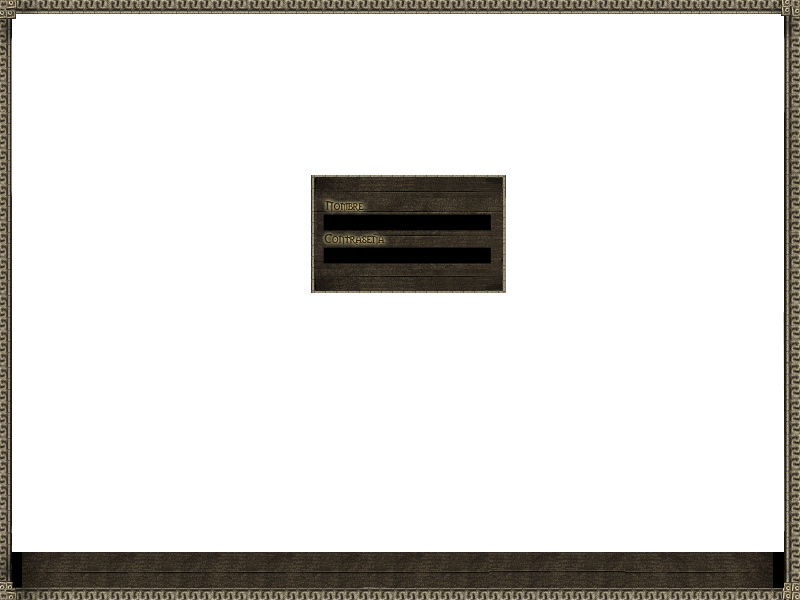
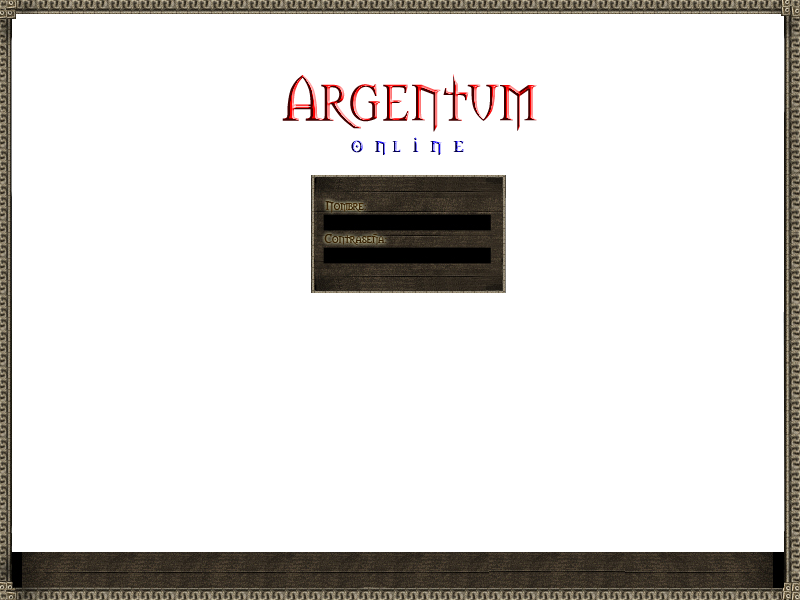
Mejoramos los formularios

Changed region(s): [[0.3438, 0.12, 0.6875, 0.27], [0.5312, 0.24, 0.5625, 0.27]]

diff --git a/src/main/java/org/aoclient/engine/gui/forms/MainGame.java b/src/main/java/org/aoclient/engine/gui/forms/MainGame.java
@@ -14,43 +14,35 @@ import static org.aoclient.engine.utils.GameData.charList;
 public class MainGame extends Form {
     private static MainGame instance;
 
-    public final Shape shpEnergia;
-    public final Shape shpMana;
-    public final Shape shpVida;
-    public final Shape shpHambre;
-    public final Shape shpSed;
+    public Shape shpEnergia = new Shape(584, 453, 75, 12, new RGBColor(0.0f, 0.0f, 0.0f));
+    public Shape shpMana = new Shape(584, 477, 75, 12, new RGBColor(0.0f, 0.0f, 0.0f));
+    public Shape shpVida = new Shape(584, 498, 75, 12, new RGBColor(0.0f, 0.0f, 0.0f));
+    public Shape shpHambre = new Shape(584, 521, 75, 12, new RGBColor(0.0f, 0.0f, 0.0f));
+    public Shape shpSed = new Shape(584, 542, 75, 12, new RGBColor(0.0f, 0.0f, 0.0f));
 
-    public final Label lblEnergia;
-    public final Label lblMana;
-    public final Label lblVida;
-    public final Label lblHambre;
-    public final Label lblSed;
+    public Label lblEnergia = new Label("999/999", 584, 453, 75, 12, false, false);
+    public Label lblMana = new Label("9999/9999", 584, 477, 75, 12, false, false);
+    public Label lblVida = new Label("999/999", 584, 498, 75, 12, false, false);
+    public Label lblHambre = new Label("999/999", 584, 521, 75, 12, false, false);
+    public Label lblSed = new Label("999/999", 584, 542, 75, 12, false, false);
 
-    private final Label lblName;
+    private Label lblName;
 
-
-    private final Button buttonClose, buttonMinimizar;
-    private final Console console;
+    private Button buttonClose, buttonMinimizar;
+    private Console console;
 
     private MainGame() {
-        super("VentanaPrincipal.png");
+
+    }
+
+    public void init(){
+        this.background.init("VentanaPrincipal.png");
+
         this.buttonClose = new Button(770,4, 17, 17);
         this.buttonClose.setAction(Engine::closeClient); // definimos su funcion pasando una lambda.
 
         this.buttonMinimizar = new Button(752, 4, 17, 17);
         this.buttonMinimizar.setAction(() -> Window.get().minimizar());
-
-        this.shpEnergia = new Shape(584, 453, 75, 12, new RGBColor(0.0f, 0.0f, 0.0f));
-        this.shpMana = new Shape(584, 477, 75, 12, new RGBColor(0.0f, 0.0f, 0.0f));
-        this.shpVida = new Shape(584, 498, 75, 12, new RGBColor(0.0f, 0.0f, 0.0f));
-        this.shpHambre = new Shape(584, 521, 75, 12, new RGBColor(0.0f, 0.0f, 0.0f));
-        this.shpSed = new Shape(584, 542, 75, 12, new RGBColor(0.0f, 0.0f, 0.0f));
-
-        this.lblEnergia = new Label("999/999", 584, 453, 75, 12, false, false);
-        this.lblMana = new Label("9999/9999", 584, 477, 75, 12, false, false);
-        this.lblVida = new Label("999/999", 584, 498, 75, 12, false, false);
-        this.lblHambre = new Label("999/999", 584, 521, 75, 12, false, false);
-        this.lblSed = new Label("999/999", 584, 542, 75, 12, false, false);
 
         this.lblName = new Label(charList[UserLogic.getInstance().getUserCharIndex()].getName().toUpperCase(),
                 584, 24, true, false, new RGBColor(1.0f, 0.0f, 0.0f));
@@ -104,7 +96,19 @@ public class MainGame extends Form {
         background.clear();
         buttonClose.clear();
         buttonMinimizar.clear();
-    }
 
+        shpHambre.clear();
+        shpMana.clear();
+        shpVida.clear();
+        shpSed.clear();
+        shpEnergia.clear();
+
+        lblHambre.clear();
+        lblSed.clear();
+        lblEnergia.clear();
+        lblName.clear();
+        lblMana.clear();
+        lblVida.clear();
+    }
 
 }

diff --git a/src/main/java/org/aoclient/engine/scenes/MainScene.java b/src/main/java/org/aoclient/engine/scenes/MainScene.java
@@ -5,6 +5,7 @@ import org.aoclient.engine.Window;
 import org.aoclient.engine.game.UserLogic;
 import org.aoclient.engine.gui.ElementGUI;
 import org.aoclient.engine.gui.elements.ImageGUI;
+import org.aoclient.engine.gui.forms.Login;
 import org.aoclient.engine.listeners.KeyListener;
 import org.aoclient.engine.renderer.RGBColor;
 import org.aoclient.engine.utils.GameData;
@@ -19,8 +20,9 @@ import static org.aoclient.engine.utils.GameData.music;
 import static org.lwjgl.glfw.GLFW.GLFW_KEY_ENTER;
 
 public final class MainScene extends Scene {
+    private Login frmLogin;
+
     // Conectar
-    private ElementGUI loginInterface;
     private RGBColor ambientColor;
 
     @Override
@@ -28,10 +30,8 @@ public final class MainScene extends Scene {
         super.init();
         canChangeTo = SceneType.GAME_SCENE;
 
-        // Interface
-        loginInterface = new ImageGUI();
-        loginInterface.loadTextures("VentanaConectar.png");
-
+        frmLogin = Login.get();
+        frmLogin.init();
         ambientColor = new RGBColor(1.0f, 1.0f, 1.0f);
 
         GameData.loadMap(58); // banderbill
@@ -41,7 +41,7 @@ public final class MainScene extends Scene {
 
     @Override
     public void mouseEvents() {
-
+        frmLogin.checkButtons();
     }
 
     @Override
@@ -57,23 +57,23 @@ public final class MainScene extends Scene {
     public void close() {
         music.stop();
         this.visible = false;
-        loginInterface.clear();
+        frmLogin.close();
     }
 
     @Override
     public void render() {
         if(UserLogic.getInstance().isUserConected()) {
-            close();
+            this.close();
         }
 
         if (!visible) return;
 
         renderMap();
-        loginInterface.render();
+        frmLogin.render();
     }
 
     private void renderMap() {
-        camera.update(35, 11);
+        camera.update(34, 16);
 
         for (int y = camera.getScreenminY(); y <= camera.getScreenmaxY(); y++) {
             int x;

diff --git a/src/main/java/org/aoclient/engine/gui/forms/Login.java b/src/main/java/org/aoclient/engine/gui/forms/Login.java
@@ -1,10 +1,32 @@
 package org.aoclient.engine.gui.forms;
 
+import org.aoclient.connection.SocketConnection;
+import org.aoclient.engine.gui.elements.Button;
+import org.aoclient.engine.listeners.MouseListener;
+
+import static org.aoclient.connection.Protocol.writeLoginExistingChar;
+import static org.aoclient.engine.Engine.forms;
+import static org.lwjgl.glfw.GLFW.GLFW_MOUSE_BUTTON_LEFT;
+
 public class Login extends Form{
     private static Login instance;
 
+    private Button btnConnect;
+
     private Login() {
-        super("VentanaConectar.png");
+
+    }
+
+    public void init() {
+        this.background.init("VentanaConectar.png");
+        //this.loadParentAttributes();
+
+        this.btnConnect = new Button(320, 264, 89, 25);
+        this.btnConnect.loadTextures("BotonConectarse.jpg", "BotonConectarseRollover.jpg", "BotonConectarseClick.jpg");
+        this.btnConnect.setAction( () -> {
+            SocketConnection.getInstance().connect();
+            writeLoginExistingChar();
+        });
     }
 
     public static Login get(){
@@ -17,17 +39,23 @@ public class Login extends Form{
 
     @Override
     public void render() {
-
+        this.background.render();
+        this.btnConnect.render();
     }
 
     @Override
     public void checkButtons() {
+        if(!forms.isEmpty()) return;
 
+        if (MouseListener.mouseButtonClick(GLFW_MOUSE_BUTTON_LEFT)) {
+            btnConnect.runAction();
+        }
     }
 
     @Override
     public void close() {
         super.close();
+        btnConnect.clear();
     }
 
 }

diff --git a/src/main/java/org/aoclient/engine/gui/forms/Form.java b/src/main/java/org/aoclient/engine/gui/forms/Form.java
@@ -10,9 +10,12 @@ public abstract class Form {
     protected int fWidth, fHeight;
     protected boolean visible;
 
-    public Form(String fileBackground) {
-        this.background = new ImageGUI(fileBackground);
+    public Form() {
+        this.background = new ImageGUI();
+        this.visible = true;
+    }
 
+    protected void loadParentAttributes(){
         // posicionamos el formulario en el centro de la pantalla segun el background cargado!
         this.fPosX = (Window.get().getWidth() / 2) - (this.background.getWidth() / 2);
         this.fPosY = (Window.get().getHeight() / 2) - (this.background.getHeight() / 2);
@@ -22,8 +25,6 @@ public abstract class Form {
         // posicionamos el fondo en la posicion de nuestro formulario
         this.background.setX(fPosX);
         this.background.setY(fPosY);
-
-        this.visible = true;
     }
 
     public abstract void render();
@@ -31,6 +32,7 @@ public abstract class Form {
 
     public void close() {
         this.visible = false;
+        this.background.clear();
     }
 
     public boolean isVisible() {

diff --git a/src/main/java/org/aoclient/engine/gui/forms/Message.java b/src/main/java/org/aoclient/engine/gui/forms/Message.java
@@ -21,7 +21,9 @@ public class Message extends Form {
     private final Button accept;
 
     public Message(String msg) {
-        super("VentanaMsj.jpg");
+        this.background.init("VentanaMsj.jpg");
+        this.loadParentAttributes();
+
         this.msg = new Label(msg, fPosX + LBL_MSG_POS_X, fPosY + LBL_MSG_POS_Y, LBL_SIZE_WIDTH, LBL_SIZE_HEIGHT, true, false);
         this.accept = new Button(fPosX + BTN_MSG_POS_X, fPosY + BTN_MSG_POS_Y, BTN_SIZE_WIDTH, BTN_SIZE_HEIGHT);
         this.accept.loadTextures("BotonCerrarMsj.jpg", "BotonCerrarRolloverMsj.jpg", "BotonCerrarClickMsj.jpg");

diff --git a/src/main/java/org/aoclient/engine/gui/elements/ImageGUI.java b/src/main/java/org/aoclient/engine/gui/elements/ImageGUI.java
@@ -18,6 +18,12 @@ public final class ImageGUI extends ElementGUI {
         this.height = this.texture.get(0).getTex_height();
     }
 
+    public void init(String... textures) {
+        this.loadTextures(textures);
+        this.width = this.texture.get(0).getTex_width();
+        this.height = this.texture.get(0).getTex_height();
+    }
+
     @Override
     public void render() {
         geometryBoxRenderGUI(this.texture.get(0), x, y, alphaTexture);

diff --git a/src/main/java/org/aoclient/engine/Engine.java b/src/main/java/org/aoclient/engine/Engine.java
@@ -4,6 +4,7 @@ import org.aoclient.connection.SocketConnection;
 import org.aoclient.engine.game.BindKeys;
 import org.aoclient.engine.game.models.E_KeyType;
 import org.aoclient.engine.gui.forms.Form;
+import org.aoclient.engine.gui.forms.Message;
 import org.aoclient.engine.listeners.KeyListener;
 import org.aoclient.engine.renderer.Surface;
 import org.aoclient.engine.scenes.*;

diff --git a/src/main/java/org/aoclient/engine/gui/forms/CreateCharacter.java b/src/main/java/org/aoclient/engine/gui/forms/CreateCharacter.java
@@ -2,8 +2,12 @@ package org.aoclient.engine.gui.forms;
 
 public class CreateCharacter extends Form {
 
-    public CreateCharacter(String fileBackground) {
-        super(fileBackground);
+    public CreateCharacter() {
+
+    }
+
+    public void init(){
+        this.loadParentAttributes();
     }
 
     @Override

diff --git a/src/main/java/org/aoclient/engine/scenes/GameScene.java b/src/main/java/org/aoclient/engine/scenes/GameScene.java
@@ -45,6 +45,7 @@ public final class GameScene extends Scene {
         camera.setHalfWindowTileHeight  (( (SCREEN_SIZE_Y / TILE_PIXEL_SIZE) / 2 ));
 
         frm = MainGame.get();
+        frm.init();
     }
 
     @Override
